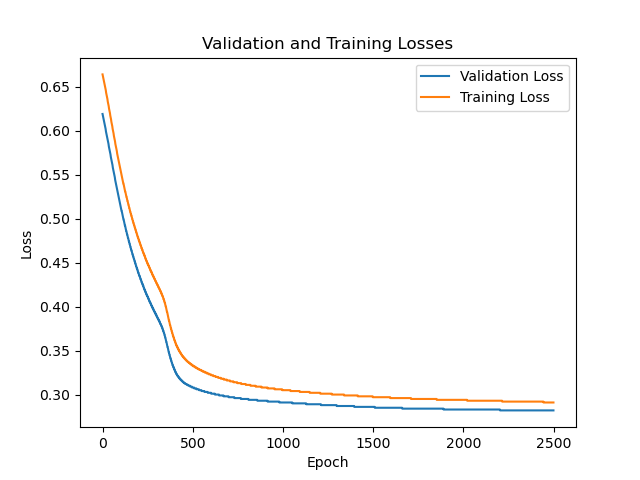
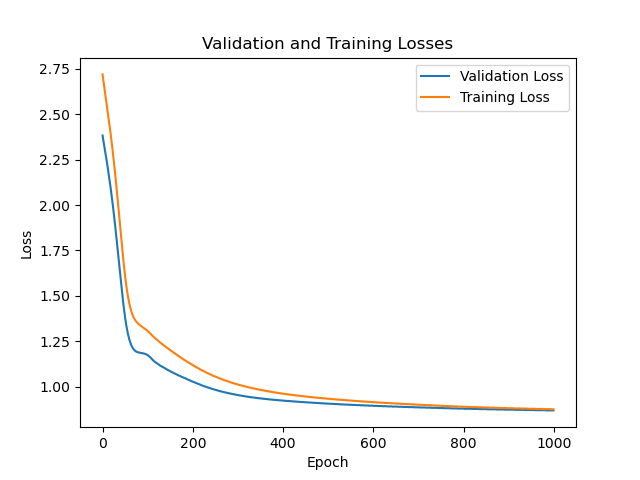
added imputation style

diff --git a/RNNtest.py b/RNNtest.py
@@ -8,30 +8,29 @@ import torch
 from torch import nn
 from torch.optim import Adam
 import csv
-import matplotlib.pyplot as plt
 from random import shuffle
 from sklearn.utils import resample
+import matplotlib.pyplot as plt
 
 
 if not torch.backends.mps.is_available():
-    if not torch.backends.mps.is_built():
-        print("MPS not available because the current PyTorch install was not "
-              "built with MPS enabled.")
-    else:
-        print("MPS not available because the current MacOS version is not 12.3+"
-              "and/or you do not have an MPS-enabled device on this machine.")
+    reason = "MPS not available because the current PyTorch install was not built with MPS enabled." \
+        if not torch.backends.mps.is_built() \
+        else "MPS not available because the current MacOS version is not 12.3+ and/or you do not have an MPS-enabled device on this machine."
+    print(reason)
     device = torch.device("cuda" if torch.cuda.is_available() else "cpu")
-
 else:
     device = torch.device("mps")
 
 
 
+baseline_agent = None
+agent = None
 
 l_rate = 0.001
 hidden_size = 16
 time_steps = 60
-epochs = 2500
+epochs = 5000
 patience = 10
 
 criterion = nn.MSELoss()
@@ -47,101 +46,38 @@ validation_losses = []
 def create_training_traces(env, mode, inp):
     # Training
     env.reset(mode)
-    if inp == 1:
-        baseline_agent = baselineAgent(agent_type='strong')
-        states = []
+    states = []
 
-        # Generate training traces from the Baseline agent
+    if inp == 1:
+        agent = baselineAgent(agent_type='strong')
         init_action = np.random.rand(env.n_camera)
         reward, state, stop = env.step(init_action)
-
-        for t in tqdm(range(env.length), initial=2):
-            action = baseline_agent.get_action(state)
-            reward, state, stop = env.step(action)
-
-            states.append(state)
-
-            if stop:
-                break
-
-        return states
-
     elif inp == 2:
-        states = []
         agent = DiscountedUCBAgent(gamma=0.999)
         agent.initialize(env.n_camera)
-
-        for t in tqdm(range(env.length), initial=2):
-            action = agent.get_action()
-            reward, state, stop = env.step(action)
-
-            # Update the UCB Agent
-            agent.update(action, state)
-
-            states.append(state)
-
-            if stop:
-                break
-
-        return states
     elif inp == 3:
-        states = []
         agent = SlidingWindowUCBAgent(window_size=9*60)
         agent.initialize(env.n_camera)
-
-        for t in tqdm(range(env.length), initial=2):
-            action = agent.get_action()
-            reward, state, stop = env.step(action)
-
-            # Update the UCB Agent
-            agent.update(action, state)
-
-            states.append(state)
-
-            if stop:
-                break
-
-        return states
     elif inp == 4:
-        states = []
         agent = UCBAgent()
         agent.initialize(env.n_camera)
-
-        for t in tqdm(range(env.length), initial=2):
-            action = agent.get_action()
-            reward, state, stop = env.step(action)
-
-            # Update the UCB Agent
-            agent.update(action, state)
-
-            states.append(state)
-
-            if stop:
-                break
-
-        return states
-    if inp == 5:
-        baseline_agent = baselineAgent(agent_type='simple')
-        states = []
-
-        # Generate training traces from the Baseline agent
+    elif inp == 5:
+        agent = baselineAgent(agent_type='simple')
         init_action = np.random.rand(env.n_camera)
         reward, state, stop = env.step(init_action)
 
-        for t in tqdm(range(env.length), initial=2):
-            action = baseline_agent.get_action(state)
-            reward, state, stop = env.step(action)
+    for t in tqdm(range(env.length), initial=2):
+        action = agent.get_action(state) if inp in [1, 5] else agent.get_action()
+        reward, state, stop = env.step(action)
 
-            states.append(state)
+        if inp in [2, 3, 4]:  # UCB agents
+            agent.update(action, state)
+        states.append(state)
 
-            if stop:
-                break
+        if stop:
+            break
 
-        return states
-
-
-baseline_agent = None
-agent = None
+    return states
 
 def get_train_test(states, split_percent=0.7):
     n = len(states)
@@ -158,19 +94,34 @@ def get_XY(states, time_steps=1):
         Y.append(states[i + time_steps])
     return np.array(X), np.array(Y)
 
-def impute_missing_values(states):
-    # median impuation
+def impute_missing_values(states, style):
     imputed_states = []
-    for state in states:
-        median_values = np.median([v for v in state if v >= 0])
-        imputed_state = np.array([v if v >= 0 else median_values for v in state])
-        imputed_states.append(imputed_state)
-    return np.array(imputed_states)
+    if style == 1:
+        for state in states:
+            median_values = np.median([v for v in state if v >= 0])
+            imputed_state = np.array([v if v >= 0 else median_values for v in state])
+            imputed_states.append(imputed_state)
+        return np.array(imputed_states)
+    else:
+        for state in states:
+            mask = state >= 0
+            x = np.where(mask)[0]
+            y = state[mask]
+            imputed_state = np.interp(np.arange(len(state)), x, y)
+            imputed_states.append(imputed_state)
+        return np.array(imputed_states)
 
-def imv(state):
-    median_value = np.median([v for v in state if v >= 0])
-    imputed_state = np.array([v if v >= 0 else median_value for v in state])
-    return imputed_state
+def imv(state, style='median'):
+    if style == 1:
+        median_value = np.median([v for v in state if v >= 0])
+        imputed_state = np.array([v if v >= 0 else median_value for v in state])
+        return imputed_state
+    else:
+        mask = state >= 0
+        x = np.where(mask)[0]
+        y = state[mask]
+        imputed_state = np.interp(np.arange(len(state)), x, y)
+        return imputed_state
 
 
 def resample_data(X, Y):
@@ -178,19 +129,19 @@ def resample_data(X, Y):
     c = list(zip(X_resampled, Y_resampled))
     shuffle(c)
     X_resampled, Y_resampled = zip(*c)
-
     return X_resampled, Y_resampled
 
 
 if __name__ == '__main__':
-    inp2 = int(input("1. Baseline Agent 2. D-UCB Agent: 3. SW-UCB Agent 4. UCB-1 Agent\n"))
+    used_agent = int(input("1. Baseline Strong 2. D-UCB Agent: 3. SW-UCB Agent 4. UCB-1 Agent 5.Baseline Simple\n"))
+    imp = int(input("Imputation style: 1. Median 2. Interpolation\n"))
 
 
-    train_data = create_training_traces(env, 'train', inp2)
-    test_data = create_training_traces(env, 'test', inp2)
+    train_data = create_training_traces(env, 'train', used_agent)
+    test_data = create_training_traces(env, 'test', used_agent)
 
-    train_data = impute_missing_values(train_data)
-    test_data = impute_missing_values(test_data)
+    train_data = impute_missing_values(train_data, style=imp)
+    test_data = impute_missing_values(test_data, style=imp)
 
     lstm_agent = LSTM_Agent(env.n_camera, hidden_size, env.n_camera).to(device)
     optimizer = Adam(lstm_agent.parameters(), lr=l_rate)
@@ -198,7 +149,7 @@ if __name__ == '__main__':
     trainX, trainY = get_XY(train_data, time_steps)
     testX, testY = get_XY(test_data, time_steps)
     trainX, trainY = resample_data(trainX, trainY)
-    
+
     # convert to np array
     trainX = np.array(trainX)
     trainY = np.array(trainY)
@@ -232,8 +183,8 @@ if __name__ == '__main__':
         hidden_state = hidden_state.to(device)
         cell_state = cell_state.to(device)
         val_loss = criterion(val_outputs, testY)
-        validation_losses.append(round(val_loss.item(), 3))  # Append the reward at each timestep
-        training_losses.append(round(loss.item(), 3))  # Append the reward at each timestep
+        validation_losses.append(round(val_loss.item(), 3))
+        training_losses.append(round(loss.item(), 3))
 
         # Early stopping
         if val_loss < best_val_loss:
@@ -291,7 +242,7 @@ if __name__ == '__main__':
         # Perform the action in the environment
         reward, state, stop = env.step(action)
         reward_on_time.append(reward)
-        state = impute_missing_values([state])[0]
+        state = impute_missing_values([state], imp)[0]
 
 
         if stop:
@@ -300,28 +251,26 @@ if __name__ == '__main__':
     average_inference_time = statistics.mean(inference_times)
 
     print(f'====== RESULT ======')
-    if inp2 == 1:
+    if used_agent == 1:
         print("Used Historical traces: Baseline Strong")
-    if inp2 == 2:
+    if used_agent == 2:
         print("Used Historical traces: D-UCB Agent")
-    if inp2 == 3:
+    if used_agent == 3:
         print("Used Historical traces: SW-UCB Agent")
-    if inp2 == 4:
+    if used_agent == 4:
         print("Used Historical traces: UCB-1 Agent")
-    if inp2 == 5:
+    if used_agent == 5:
         print("Used Historical traces: Baseline Weak")
 
     print('[total reward]:', env.get_total_reward())
     print('[Hyperparameters]')
     print(
-        "epochs: {} lr: {} \nhidden_size: {} time_steps: {} loss function: {}".format(
+        "epochs: {} l_rate: {} \nhidden_size: {} time_steps: {}".format(
             epochs, l_rate, hidden_size, time_steps))
 
     total_reward = env.get_total_reward()
-
-    # used historical trace, total reward, epochs, l_rate, hidden_size, amount of timesteps, 1: MSE, 2: MAE, 3: Huber
     result.append(
-        [inp2, total_reward, best_epoch, epochs, l_rate, hidden_size, time_steps, average_inference_time])
+        [used_agent, total_reward, best_epoch, epochs, l_rate, hidden_size, time_steps, average_inference_time])
 
     with open('results.csv', mode='a', newline='') as file:
         writer = csv.writer(file)
@@ -337,30 +286,4 @@ if __name__ == '__main__':
     plt.title('Validation and Training Losses')
 
     plt.savefig('losses.png')
-    #plt.show()
-
-
-    # plot the reward on time
-    plt.plot(range(len(reward_on_time)), reward_on_time)
-
-    plt.xlabel('Time')
-    plt.ylabel('Reward')
-    plt.title(f'Reward on time of agent: {inp2} with total reward: {total_reward}')
-
-    plt.savefig('reward_on_time.png')
     plt.show()
-
-
-
-"""
-Strong baseline 0.506
-
-====== RESULT ======
-Used Historical traces: Baseline Agent
-[total reward]: 0.532
-[Hyperparameters]
-epochs: 2500 lr: 0.001 
-hidden_size: 16 time_steps: 60 loss function: 1
-
-improvement 0.532 - 0.506 = 0.026 = 5.1%
-"""
